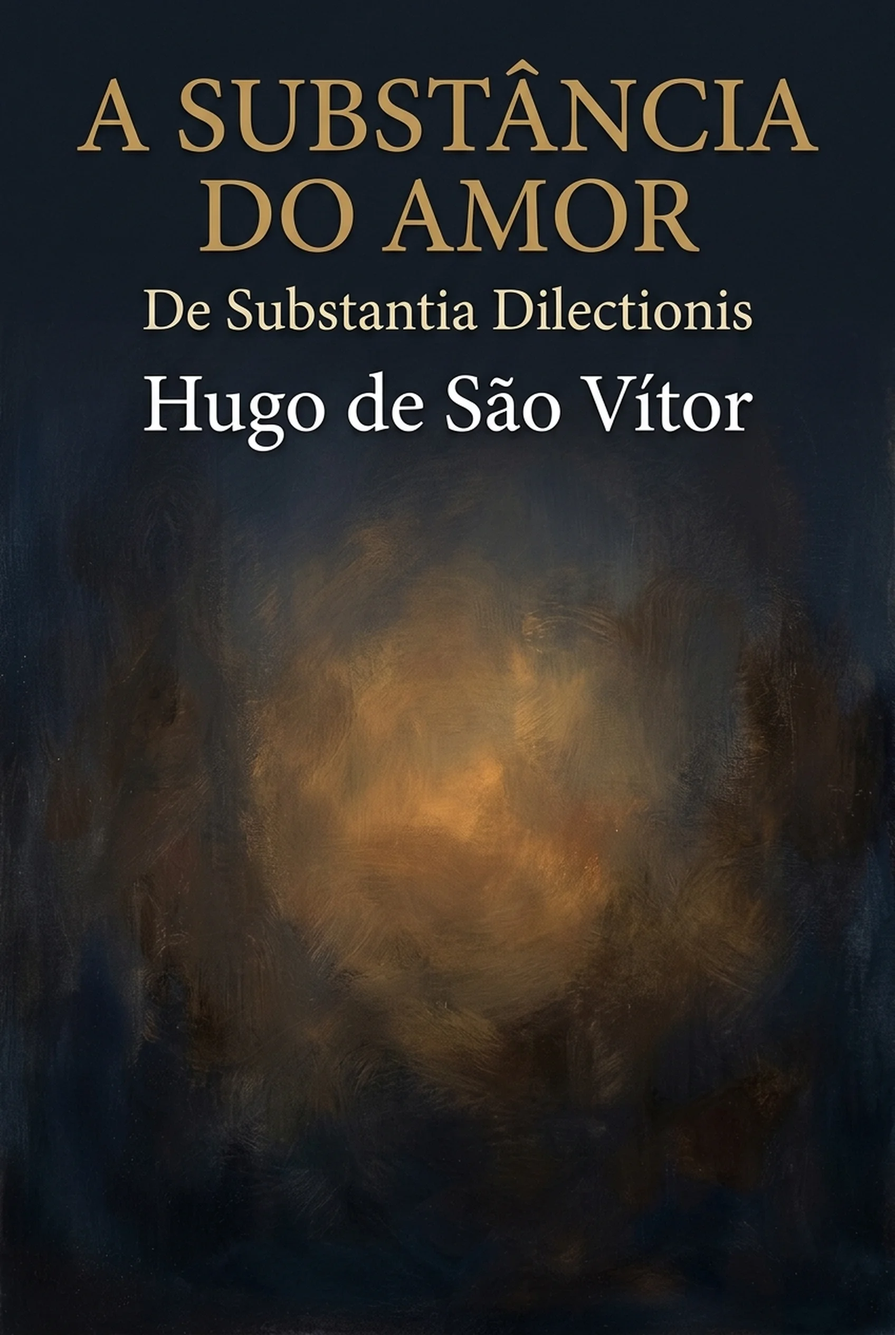
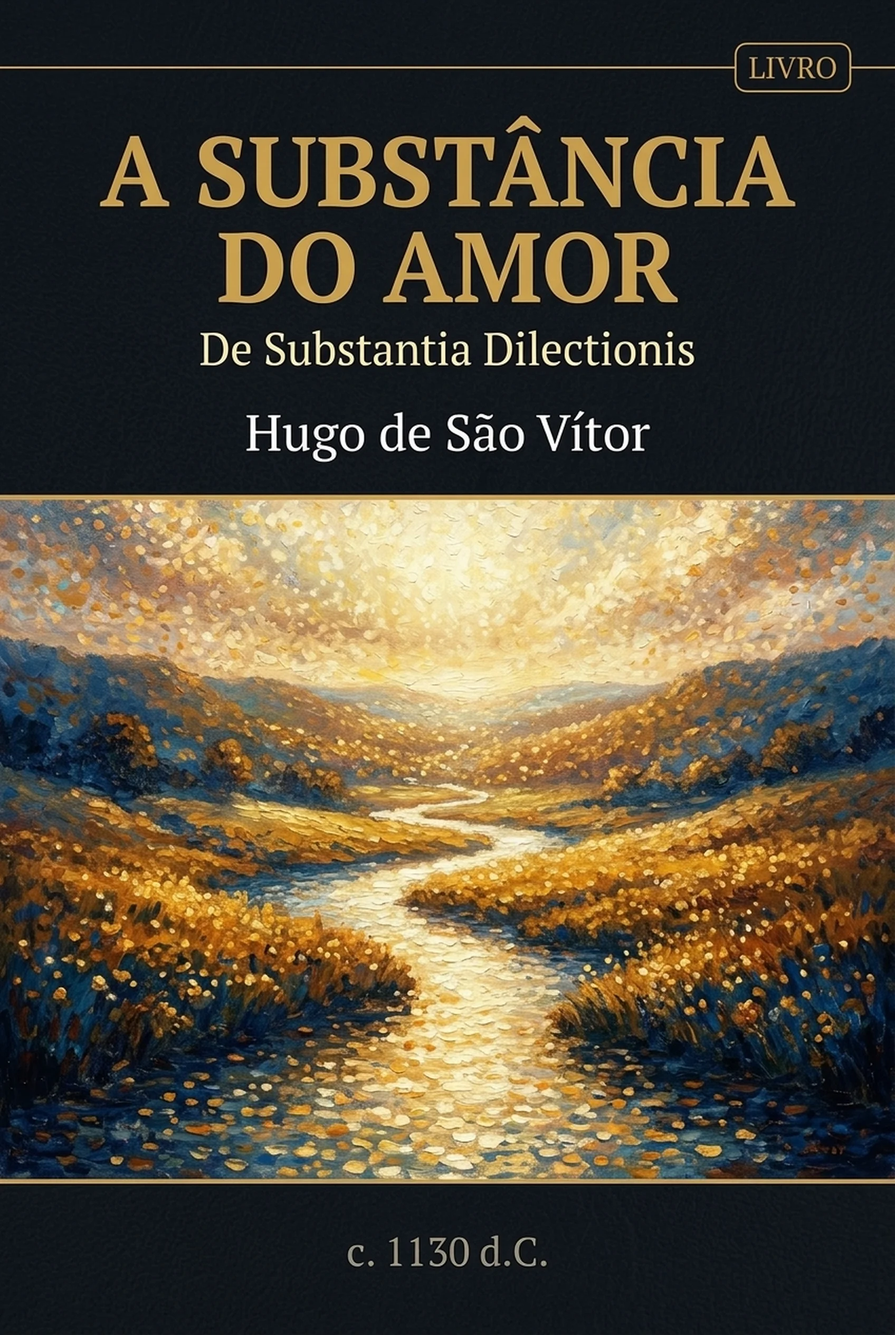
Reformulando capas de livros para layout padrão 01.

diff --git a/ROADMAP_COVERS.md b/ROADMAP_COVERS.md
@@ -15,9 +15,9 @@ Acompanhamento do processo de refatoração e criação manual das capas padroni
 | 5 | `poetica` | Aristóteles | 335 a.C. | ✅ Concluído |
 | 6 | `isagoge` | Porfírio | 270 d.C. | ✅ Concluído |
 | 7 | `cartas` | Inácio de Antioquia | 107 d.C. | ✅ Concluído |
-| 8 | `a-palavra-de-deus` | Hugo de São Vítor | c. 1130 d.C. | ⏳ Em avaliação |
-| 9 | `a-substancia-do-amor` | Hugo de São Vítor | c. 1130 d.C. | ⚪ Pendente |
-| 10 | `genealogia-espiritual-de-hugo-e-sao-tomas` | Hugo de São Vítor | c. 1130 d.C. | ⚪ Pendente |
+| 8 | `a-palavra-de-deus` | Hugo de São Vítor | c. 1130 d.C. | ✅ Concluído |
+| 9 | `a-substancia-do-amor` | Hugo de São Vítor | c. 1130 d.C. | ✅ Concluído |
+| 10 | `genealogia-espiritual-de-hugo-e-sao-tomas` | Hugo de São Vítor | c. 1130 d.C. | ⏳ Pausado (Aguardando Quota IA) |
 | 11 | `primeiro-livro-de-moises-chamado-genesis` | Moisés | c. 1400 a.C. | ⚪ Pendente |
 | 12 | `segundo-livro-de-moises-chamado-exodo` | Moisés | c. 1400 a.C. | ⚪ Pendente |
 | 13 | `comentario-sobre-a-religiao-crista` | Petrus Ramus | 1576 | ⚪ Pendente |
